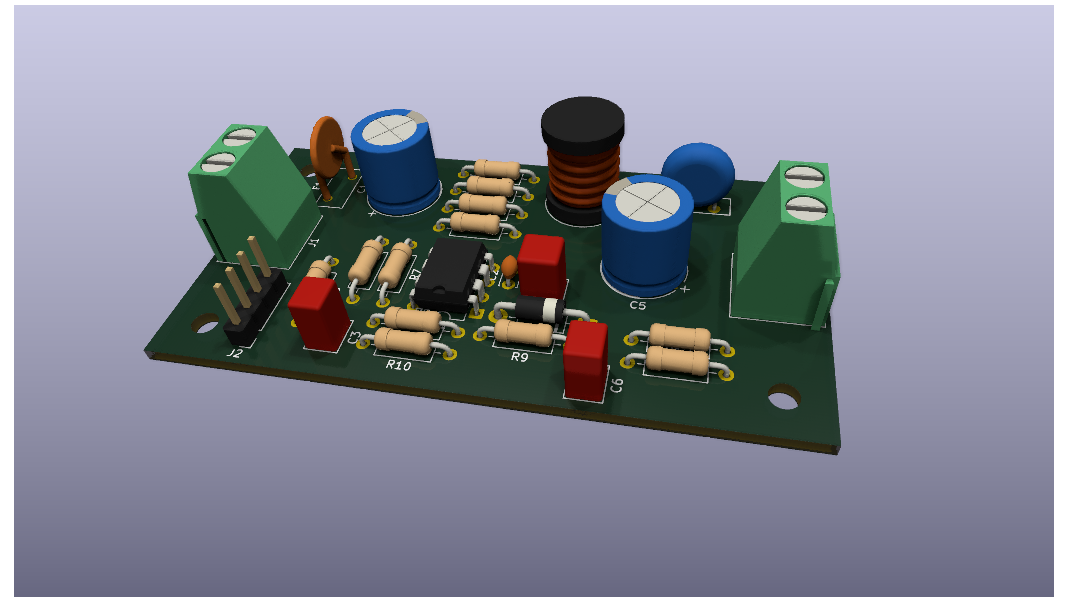
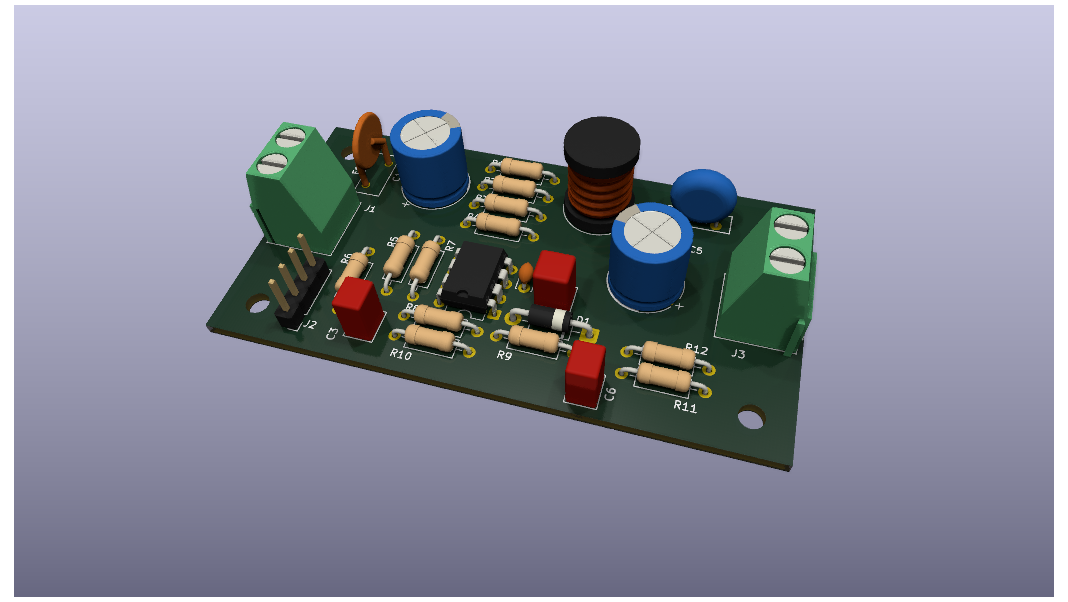
hiside switch img added

Changed region(s): [[0.1236, 0.1495, 0.8034, 0.7774]]

diff --git a/README.md b/README.md
@@ -91,6 +91,13 @@ In case the coil should be battery-powered (e.g. from 3x AA alkaline cells / 4.5
 
 ![Boost Converter Board](img/boost_converter.png)
 
+
+### Hi-Side Switch
+
+Can be used to power the coil.
+
+![Hi-Side Switch Board](img/hiside_switch.png)
+
 ## Simlar projects
 
 - [lincoln1clarke (Instructables) - Electromagnetic Marble Accelerator for Gravitrax](https://www.instructables.com/Electromagnetic-Marble-Accelerator-for-Gravitrax/)
